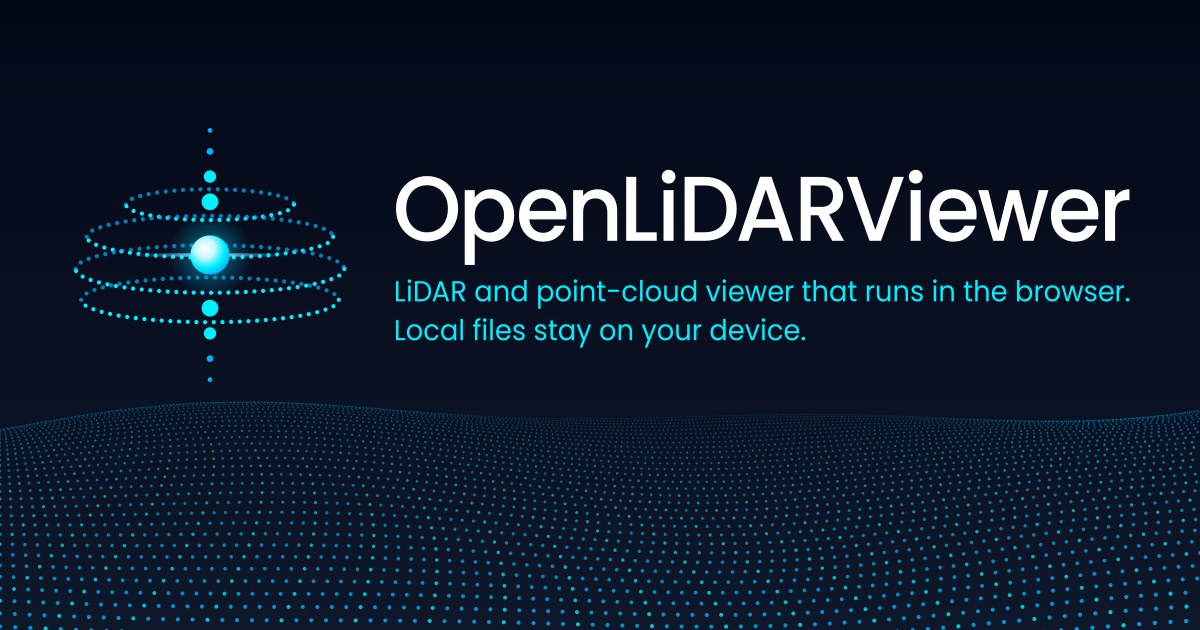
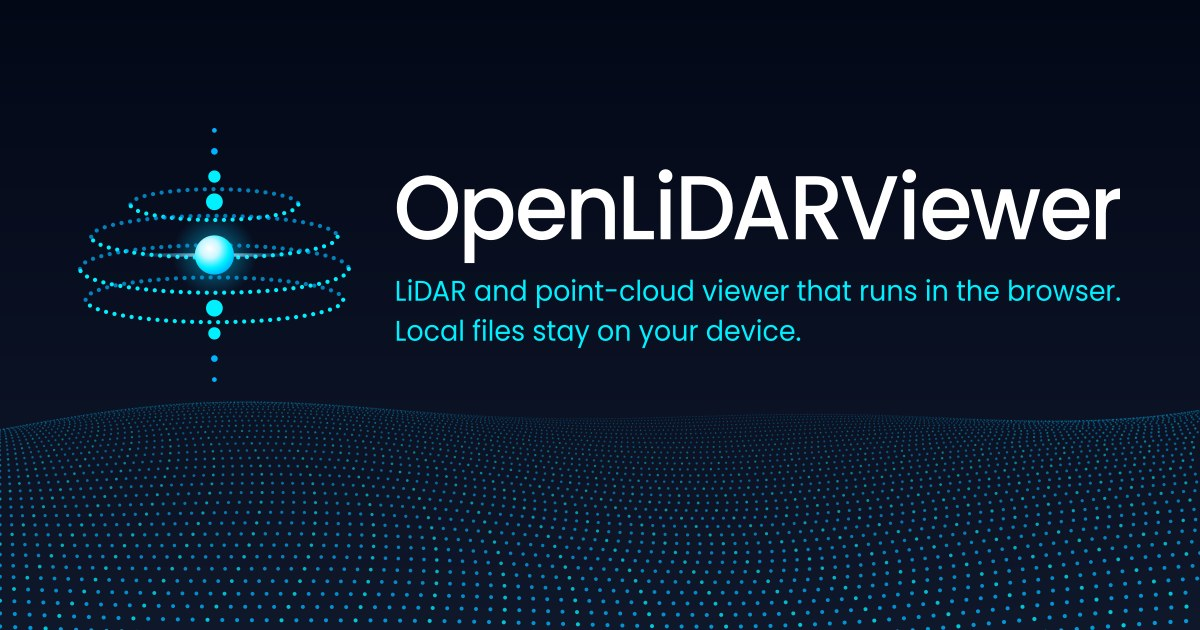
Set the share card and brand lockup spacing on an 8 px scale
Margins, the emblem-to-text gap, the wordmark-to-tagline gap and the tagline line pitch are steps of one spacing scale. The lockup has 48 px on every side, 48 px between emblem and text and 16 px under the wordmark; the share card has 80 px side margins and the wordmark fills the width between the text start and the right margin.

diff --git a/scripts/make-brand-rasters.py b/scripts/make-brand-rasters.py
@@ -61,6 +61,13 @@ RINGS = [(-18, 30, 5.5), (-6.5, 44, 7.5), (5, 48, 8.5), (16, 46, 8.0)]
 # (offset from centre, radius), mirrored above and below the sphere.
 AXIS = [(19, 3.0), (28, 2.2), (37, 1.2), (44.5, 0.85)]
 
+# Spacing scale (8 px base). Every gap and margin in the lockup and the share
+# card is one of these steps.
+SPACE = {"xs": 4, "sm": 8, "md": 16, "lg": 24, "xl": 32, "2xl": 48, "3xl": 64, "4xl": 80}
+# Ink extents of the emblem in its 100-unit box: the widest ring (rx 48) and
+# the outermost axis dots (offset 44.5, radius 0.85).
+EMBLEM_INK = (2.0, 50 - 44.5 - 0.85, 98.0, 50 + 44.5 + 0.85)
+
 
 # The light-background lockup: the same emblem in deeper blues, so it holds on
 # near-white surfaces.
@@ -212,49 +219,66 @@ def ink_bounds(font: TTFont, text: str, size: float, x: float = 0.0, baseline: f
     return pen.bounds
 
 
-def lockup_text(left: float, centre_y: float, word_size: float, tag_size: float) -> tuple[str, str, float]:
+def lockup_text(left: float, right: float, centre_y: float, word_size: float, tag_size: float) -> tuple[str, str]:
     """Wordmark and tagline as one block, laid out from the outlines' ink bounds.
 
-    The block's ink starts at `left` and is centred on `centre_y` (the emblem's
-    centre), measured from the wordmark's cap top to the last tagline baseline
-    so descenders hang below as they do in set type. The gap from the
-    wordmark's lowest ink (the descender of "p") to the tagline is half the
-    tagline size, the tagline leading is 1.35, and the tagline is never wider
-    than the wordmark. Returns (wordmark path, tagline path, right ink edge).
+    Inline: the block's ink runs from `left` to `right`; the wordmark is scaled
+    to fill that width and the tagline is never wider than the wordmark.
+    Stack: the tagline's first line starts SPACE["md"] below the wordmark's
+    lowest ink (the descender of "p"), and tagline baselines are a whole number
+    of SPACE["sm"] steps apart, at least 1.3 x the tagline size.
+    The block is centred on `centre_y` (the emblem's centre), measured from the
+    wordmark's cap top to the last tagline baseline, so descenders hang below
+    as they do in set type. Returns (wordmark path, tagline path).
     """
     medium, regular = load_font("Medium"), load_font("Regular")
     tracking = -0.02
+    wl, _, wr, _ = ink_bounds(medium, WORDMARK, word_size, 0, 0, tracking)
+    word_size *= (right - left) / (wr - wl)
     wl, wt, wr, wb = ink_bounds(medium, WORDMARK, word_size, 0, 0, tracking)
-    widest = max(ink_bounds(regular, line, tag_size)[2] - ink_bounds(regular, line, tag_size)[0] for line in TAGLINE)
+    def width(line: str, size: float) -> float:
+        b = ink_bounds(regular, line, size)
+        return b[2] - b[0]
+    widest = max(width(line, tag_size) for line in TAGLINE)
     if widest > wr - wl:
         tag_size *= (wr - wl) / widest
-    leading = tag_size * 1.35
+    step = SPACE["sm"]
+    pitch = math.ceil(tag_size * 1.3 / step) * step
     tag_top = min(ink_bounds(regular, TAGLINE[0], tag_size)[1], 0.0)
-    first_base = wb + 0.5 * tag_size - tag_top
-    last_base = first_base + leading * (len(TAGLINE) - 1)
+    first_base = wb + SPACE["md"] - tag_top
+    last_base = first_base + pitch * (len(TAGLINE) - 1)
     shift = centre_y - (wt + last_base) / 2
     word, _ = text_path(medium, WORDMARK, word_size, left - wl, shift, tracking)
     tag = "".join(
-        text_path(regular, line, tag_size, left - ink_bounds(regular, line, tag_size)[0], shift + first_base + i * leading)[0]
+        text_path(regular, line, tag_size, left - ink_bounds(regular, line, tag_size)[0], shift + first_base + i * pitch)[0]
         for i, line in enumerate(TAGLINE)
     )
-    return word, tag, left + (wr - wl)
+    return word, tag
 
 
 def brand_logo_svg() -> str:
-    """Horizontal lockup on the #030817 field, all vector."""
-    h = 360
-    # Emblem: translate(40 30) scale(3), so its centre is y 180 and its widest
-    # ring spans x 46 to 334. The text starts 18.4 emblem units (55) past the
-    # rings, the same gap as the share card, and the canvas ends one emblem
-    # margin (46) past the text.
-    word, tag, right = lockup_text(389, 180, 118, 38)
-    w = math.ceil(right + 46)
+    """Horizontal lockup on the #030817 field, all vector.
+
+    Margins are SPACE["2xl"] on every side of the emblem and text ink; the text
+    starts SPACE["2xl"] past the emblem's widest ring. The canvas is as wide as
+    the wordmark at its set size needs.
+    """
+    scale = 3.0
+    margin = SPACE["2xl"]
+    ex0, ey0, ex1, ey1 = EMBLEM_INK
+    tx, ty = margin - ex0 * scale, margin - ey0 * scale
+    h = math.ceil(2 * margin + (ey1 - ey0) * scale)
+    left = margin + (ex1 - ex0) * scale + SPACE["2xl"]
+    medium = load_font("Medium")
+    wl, _, wr, _ = ink_bounds(medium, WORDMARK, 118, 0, 0, -0.02)
+    right = left + (wr - wl)
+    w = math.ceil(right + margin)
+    word, tag = lockup_text(left, right, h / 2, 118, 38)
     return (
         f'<svg xmlns="http://www.w3.org/2000/svg" viewBox="0 0 {w} {h}" width="{w}" height="{h}">'
         f"<defs>{emblem_defs('l')}</defs>"
         f'<rect width="{w}" height="{h}" fill="{NIGHT}"/>'
-        f'<g transform="translate(40 30) scale(3)">{emblem_body("l")}</g>'
+        f'<g transform="translate({tx:g} {ty:g}) scale({scale:g})">{emblem_body("l")}</g>'
         f'<path d="{word}" fill="{WHITE}"/><path d="{tag}" fill="{CYAN}"/></svg>\n'
     )
 
@@ -281,17 +305,28 @@ def terrain_dots(w: int, h: int) -> str:
 
 
 def og_card_svg() -> str:
+    """1200 x 630 share card.
+
+    Left and right margins are SPACE["4xl"] (80); the emblem's top is
+    SPACE["4xl"] + SPACE["2xl"] (128) from the top edge so the block sits
+    above the terrain field; the text starts SPACE["2xl"] past the widest ring
+    and the wordmark is sized to end at the right margin.
+    """
     w, h = 1200, 630
-    # Emblem: translate(70 115) scale(2.8), so its centre is y 255 and its
-    # widest ring ends at x 344; the text starts 52 past it.
-    word, tag, _ = lockup_text(396, 255, 92, 31)
+    scale = 2.8
+    margin = SPACE["4xl"]
+    ex0, ey0, ex1, ey1 = EMBLEM_INK
+    tx, ty = margin - ex0 * scale, SPACE["4xl"] + SPACE["2xl"] - ey0 * scale
+    centre_y = ty + 50 * scale
+    left = margin + (ex1 - ex0) * scale + SPACE["2xl"]
+    word, tag = lockup_text(left, w - margin, centre_y, 92, 31)
     return (
         f'<svg xmlns="http://www.w3.org/2000/svg" viewBox="0 0 {w} {h}" width="{w}" height="{h}">'
         f"<defs>{emblem_defs('o')}"
         f'<linearGradient id="bg" x1="0" y1="0" x2="0" y2="1"><stop offset="0" stop-color="{NIGHT}"/>'
         f'<stop offset="1" stop-color="{MIDNIGHT}"/></linearGradient></defs>'
         f'<rect width="{w}" height="{h}" fill="url(#bg)"/>{terrain_dots(w, h)}'
-        f'<g transform="translate(70 115) scale(2.8)">{emblem_body("o")}</g>'
+        f'<g transform="translate({tx:g} {ty:g}) scale({scale:g})">{emblem_body("o")}</g>'
         f'<path d="{word}" fill="{WHITE}"/><path d="{tag}" fill="{CYAN}"/></svg>\n'
     )
 
